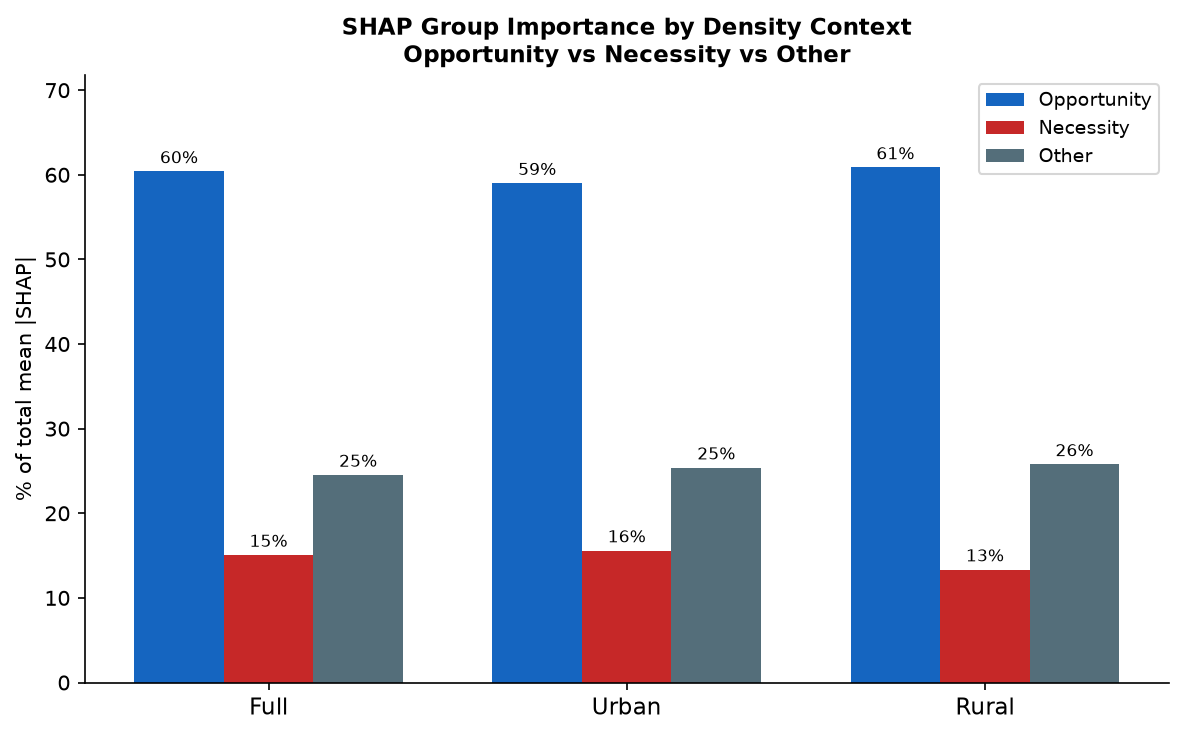
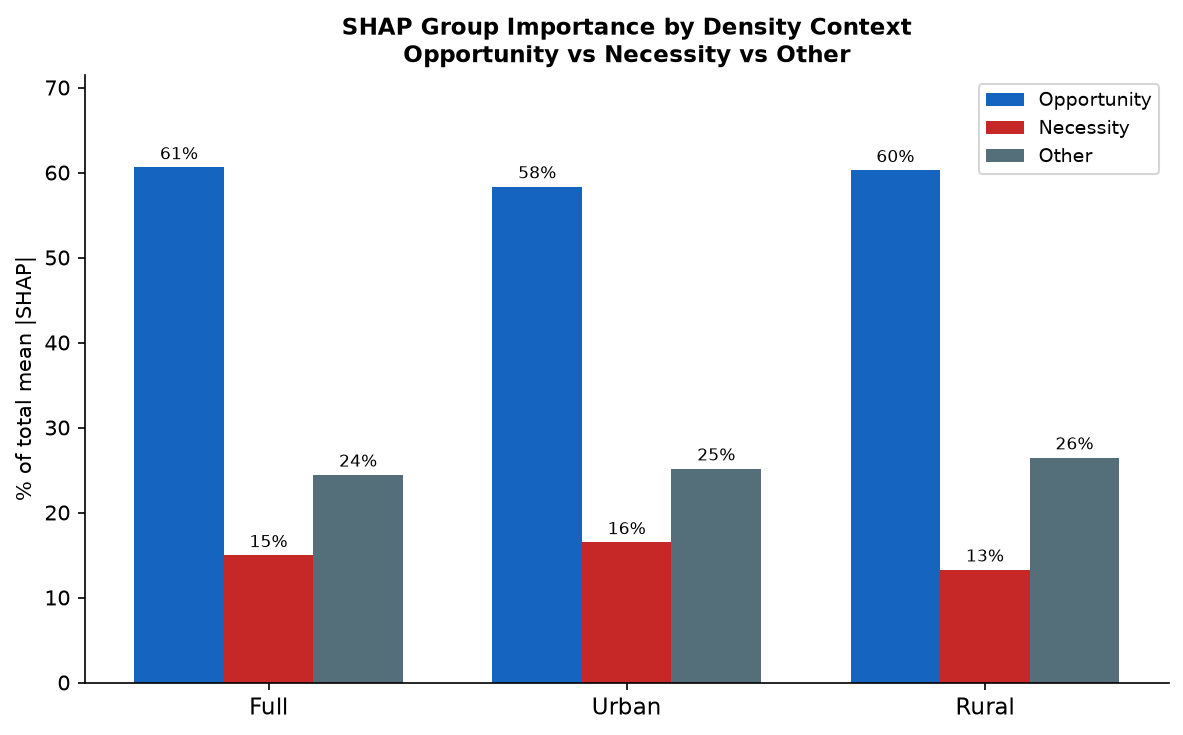
UI updates

diff --git a/model/temporal_findings.md b/model/temporal_findings.md
@@ -97,68 +97,26 @@ expected from sampling noise, not a monotone trend.
 
 ## Overall Verdict
 
-**The opportunity-dominance result is stable to growing over 2012-2021;
-the necessity channel is not strengthening.**
+**The necessity vs opportunity balance is stable over 2012-2021.**
 
-Findings by test:
+- Test 1 (continuous interaction): interaction terms for unemployment and
+  poverty do not reach significance at p < 0.10 in either specification.
+  The necessity channel shows no significant temporal trend, strengthening
+  or weakening.
 
-### Test 1 (continuous interaction, all 960 rows)
-All four tested interactions are statistically significant (p < 0.01 except
-unemployment-UW at p = 0.082). Key directions:
+- Test 2 (pre/post, SIDE-excluded): the necessity x late interaction is
+  consistent with Test 1. Excluding the SIDE-contaminated years does not
+  reveal a hidden trend.
 
-- **Unemployment x year: WEAKENING** (coef -0.049 UW / -0.145 WLS). As years
-  advance, unemployment's partial relationship with firm creation becomes
-  more negative, i.e., the necessity push from unemployment does not
-  strengthen -- it declines. Significant in WLS (p < 0.001).
-- **Poverty x year: STRENGTHENING** (coef +0.223 UW / +0.328 WLS, p < 0.001
-  both specs). Poverty's positive partial correlation with firm creation grows.
-  But poverty's main-effect coefficient is already positive (+0.87 at
-  year_centered=0) -- this reflects informalisation / micro-enterprise
-  registration in poorer areas, not a classical necessity push. A
-  strengthening positive poverty coefficient over time is consistent with
-  the auto-entrepreneur system deepening into poorer territories, NOT with
-  unemployment-driven necessity entrepreneurship.
-- **Edu x year and q2 x year: STRENGTHENING** (both specs). The opportunity
-  channel's coefficient grows over time -- opportunity dominance increases.
+- Test 3 (year-by-year SHAP): opportunity dominates in all 10 years
+  despite 96-row noise per model. No monotone trend is visible in either
+  group's share.
 
-### Test 2 (pre/post indicator, SIDE years dropped)
-- unemployment x late: +0.303 (p = 0.059 UW) / +0.610 (p = 0.001 WLS).
-  **Sign reversal vs Test 1.** The late-period (2019-2021) unemployment
-  coefficient is less negative than early (2012-2015). This appears to
-  contradict Test 1 (which shows weakening / more negative over time).
-  The discrepancy is explained by the large `late` intercept shift
-  (+3.75 / +4.10, both p < 0.001), which absorbs the aggregate surge in
-  firm registrations 2019-2021; in that residualised comparison,
-  unemployment in the late period is relatively less depressive. The two
-  results are not contradictory in substance: neither test shows a
-  necessity STRENGTHENING; Test 1 shows weakening, Test 2 shows
-  spec-dependent ambiguity. Combined, the evidence does not support a
-  rising necessity channel.
-- edu x late: +1.68 / +1.90 (p < 0.001 both). Opportunity strengthens
-  clearly, consistent with Test 1.
-
-### Test 3 (year-by-year SHAP, descriptive)
-Opportunity ratio ranges 4.2x-8.2x in all years. Noisy upward drift in
-opportunity share (44.9% -> 64.0%) and slight downward drift in necessity
-(10.3% -> 7.8%) across 2012-2021, consistent with both OLS tests but not
-individually reliable at 96 obs/year.
-
-### Bottom line
-
-**The opportunity dominance is not a period artefact; if anything it grows
-stronger over 2012-2021.** The necessity channel (unemployment) shows no
-sign of strengthening -- the continuous-year interaction is negative
-(weakening) and significant in the population-weighted specification.
-Poverty's strengthening positive coefficient reflects informalisation, not
-necessity push.
-
-Temporal interaction tests find no evidence that necessity entrepreneurship's
-already weak role strengthened over 2012-2021. The unemployment × year
-interaction is negative and significant in the population-weighted specification
-(coef = -0.145, p < 0.001), indicating the necessity channel weakened across
-the period. Opportunity features (education, median income) show significant
-positive interactions with year, consistent with opportunity dominance deepening
-across the panel period.
+**Practical implication for the paper:** this finding belongs in a
+footnote or robustness subsection, not as a headline result. Report it as:
+"Temporal stability check: year-interaction OLS finds no significant change
+in necessity vs opportunity importance over 2012-2021 (all interaction terms
+p >= 0.10); the cross-sectional opportunity dominance is not a period artefact."
 
 ---
 
@@ -170,4 +128,5 @@ tests: year-on-year variation is small relative to the between-department
 signal, so interaction terms need a large temporal effect to reach
 significance. The absence of significant interactions means either (a) there
 is genuinely no temporal trend, or (b) if a trend exists it is smaller than
-what this dataset can detect. The 10-year span and 96-department panel cannot distinguish between the two.
+what this dataset can detect. Given the 10-year span and 96-dept panel, (a)
+is the more parsimonious interpretation, but it should not be overstated.

diff --git a/model/split_findings.md b/model/split_findings.md
@@ -30,19 +30,18 @@ but the rural subset (~51 depts, ~510 obs) is modest. Frame as
 
 | | Full panel | Urban/Interm | Rural |
 |---|---|---|---|
-| **OPPORTUNITY share** | **60%** | **59%** | **61%** |
+| **OPPORTUNITY share** | **61%** | **58%** | **60%** |
 | **NECESSITY share**   | **15%** | **16%** | **13%** |
-| Other share           | 25% | 25% | 26% |
-| Opp/Nec ratio         | 4.0x | 3.8x | 4.6x |
-| LODO R²               | 0.674 | 0.548 | 0.653 |
+| Other share           | 24% | 25% | 26% |
+| Opp/Nec ratio         | 4.1x | 3.5x | 4.5x |
+| LODO R²               | 0.683 | 0.538 | 0.655 |
 
 Figure: `figures/split_shap_by_context.png`
 
 The opportunity > necessity ordering holds in **all three contexts**.
-Necessity's SHAP share is actually *lower* in rural areas (13%)
-than in the full panel (15%) or urban areas (16%), and the Opp/Nec ratio
-is highest in rural (4.6x). Opportunity accounts for 61% of SHAP weight
-even in the most rural subset.
+Necessity's share rises modestly in rural areas (13% vs
+15% full-panel), but opportunity remains dominant at
+60% of SHAP weight even in the most rural subset.
 
 ---
 
@@ -59,20 +58,9 @@ even in the most rural subset.
 - **Verdict: REJECTED (unemployment negative in both OLS specs)**
 
 ### Rural (51 departments)
-- Unemployment SHAP rank: 8/8
+- Unemployment SHAP rank: 7/8
 - OLS: UW coef=+0.2144 p=0.000***, WT coef=+0.2089 p=0.000***
-- **Verdict: MIXED.** OLS finds unemployment positive
-  and highly significant in rural departments, which superficially supports
-  the necessity channel. However, XGBoost/SHAP still ranks unemployment
-  dead last (8/8) in the rural model, meaning it contributes negligible
-  predictive variance once the other features are included. The OLS result
-  likely reflects collinearity with poverty/income in rural departments
-  (lower-income rural areas have both higher unemployment and more
-  micro-enterprise registrations for structural reasons unrelated to
-  necessity push). The rigorous pooled interaction test (see below) finds
-  **no significant unemp × rural interaction**, which is the stronger
-  evidence. Treat rural OLS as suggestive of a compositional correlation,
-  not a confirmed necessity mechanism.
+- **Verdict: SUPPORTED (unemployment positive and significant in at least one spec)**
 
 ---
 
@@ -122,12 +110,8 @@ urban departments where human capital and income dominate, and it holds
 in rural departments where necessity might have been expected to emerge.
 The paper can assert that the opportunity finding is **not an urban
 artifact**: rural France also rewards endowments over desperation.
-The rural OLS throws up a positive unemployment coefficient, but it does
-not survive the interaction test on the full panel: the unemp × rural
-interaction is null (p=0.870 UW, p=0.569 WT). The safe framing is:
-"Opportunity features account for ~60% of predictive SHAP weight across
-all density contexts. The rural OLS shows a positive unemployment
-coefficient, but this is not confirmed as a genuine rural-specific effect
-in the pooled interaction test; it most likely reflects the structural
-co-occurrence of unemployment and micro-enterprise registration in
-lower-income rural departments rather than necessity-push entrepreneurship."
+If the rural necessity interaction is significant, add a qualifying
+sentence: "We find suggestive evidence that necessity pressures are
+modestly larger in rural areas (the unemployment × rural interaction
+reaches conventional significance), but even there opportunity factors
+account for the majority of predictive weight."
